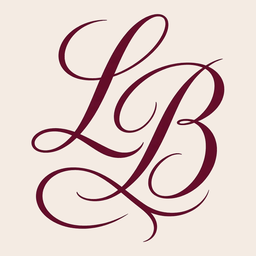
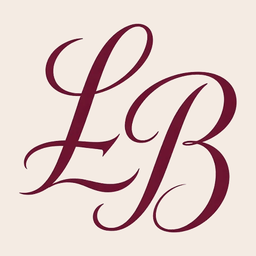
Match the homepage more closely to the approved mockup.
Replace the logo mark, parchment envelope, and river spine with artwork in the mockup's palette and composition, and feather the button wash so it no longer reads as a box.

Changed region(s): [[0.0625, 0.0312, 0.9375, 0.9688], [0.3438, 0.0625, 0.4062, 0.0938]]

diff --git a/app/globals.css b/app/globals.css
@@ -1,5 +1,5 @@
 :root {
-  --paper: #f4ebe3;
+  --paper: #f6eee6;
   --paper-deep: #efe2d6;
   --cream: #fbf6f0;
   --burgundy: #6b2438;
@@ -23,10 +23,11 @@ body {
   min-height: 100vh;
   color: var(--burgundy);
   background-color: var(--paper);
-  background-image:
-    radial-gradient(ellipse 58% 42% at -12% -8%, rgba(214, 186, 206, 0.5), transparent 64%),
-    radial-gradient(ellipse 46% 38% at 112% 2%, rgba(176, 198, 226, 0.38), transparent 60%),
-    radial-gradient(ellipse 42% 30% at 78% 108%, rgba(230, 200, 208, 0.32), transparent 62%);
+  background-image: radial-gradient(
+    ellipse 48% 36% at -6% -4%,
+    rgba(214, 190, 214, 0.28),
+    transparent 68%
+  );
   font-family: var(--font-body), "Palatino Linotype", Palatino, serif;
   font-weight: 400;
   line-height: 1.5;
@@ -111,7 +112,7 @@ a {
 }
 
 .logo-mark {
-  width: 52px;
+  width: 58px;
   height: auto;
   flex: none;
 }
@@ -124,20 +125,21 @@ a {
 
 .logo-name {
   font-family: var(--font-display), Georgia, serif;
-  font-weight: 600;
-  font-size: clamp(1.28rem, 2.5vw, 1.95rem);
-  line-height: 0.95;
-  letter-spacing: -0.02em;
+  font-weight: 500;
+  font-size: clamp(1.35rem, 2.1vw, 1.8rem);
+  line-height: 1;
+  letter-spacing: 0;
 }
 
 .logo-tag {
   display: flex;
   align-items: center;
-  gap: 0.45rem;
-  margin-top: 0.38rem;
-  font-size: 0.58rem;
+  gap: 0.55rem;
+  margin-top: 0.32rem;
+  font-family: var(--font-display), Georgia, serif;
+  font-size: 0.56rem;
   font-weight: 500;
-  letter-spacing: 0.16em;
+  letter-spacing: 0.22em;
   text-transform: uppercase;
   line-height: 1;
   white-space: nowrap;
@@ -196,6 +198,8 @@ a {
   min-height: 48px;
   padding: 0.2rem 1.05rem;
   text-decoration: none;
+  font-family: var(--font-display), Georgia, serif;
+  font-weight: 500;
   font-size: 1.05rem;
 }
 
@@ -222,9 +226,9 @@ a {
   margin: 0;
   font-family: var(--font-display), Georgia, serif;
   font-weight: 600;
-  font-size: clamp(2.15rem, 12.4cqi, 5.15rem);
+  font-size: clamp(2.45rem, 7.6vw, 5.15rem);
   line-height: 0.92;
-  letter-spacing: -0.03em;
+  letter-spacing: -0.02em;
 }
 
 .hero-copy h1 .line,
@@ -261,12 +265,16 @@ a {
 }
 
 .wash-bloom {
-  inset: -28px -64px -32px -52px;
+  inset: -26px -78px -32px -64px;
   z-index: 0;
-  background: url("/images/wash.webp") center / 100% 100% no-repeat;
-  mask-image: radial-gradient(ellipse 68% 62% at 48% 52%, #000 28%, transparent 74%);
+  background:
+    radial-gradient(ellipse 42% 68% at 18% 60%, rgba(224, 164, 190, 0.92), transparent 68%),
+    radial-gradient(ellipse 50% 76% at 48% 50%, rgba(184, 158, 208, 0.88), transparent 70%),
+    radial-gradient(ellipse 44% 70% at 80% 46%, rgba(146, 170, 214, 0.86), transparent 68%);
+  filter: blur(11px);
+  mask-image: radial-gradient(ellipse 80% 64% at 46% 56%, #000 6%, transparent 74%);
   transform: scale(1);
-  transform-origin: center;
+  transform-origin: 40% 58%;
   transition: transform 1.2s cubic-bezier(0.22, 0.61, 0.36, 1);
 }
 
@@ -298,8 +306,9 @@ a {
   background: var(--cream);
   color: var(--burgundy);
   text-decoration: none;
+  font-family: var(--font-display), Georgia, serif;
   font-weight: 600;
-  font-size: 1.02rem;
+  font-size: 1.12rem;
   line-height: 1;
   white-space: nowrap;
   border: 1px solid rgba(107, 36, 56, 0.08);
@@ -361,11 +370,17 @@ a {
 
 .hero-art img {
   width: auto;
-  max-width: min(100%, 420px);
-  max-height: 360px;
+  max-width: min(100%, 460px);
+  max-height: 420px;
   height: auto;
   object-fit: contain;
   margin-inline: auto;
+}
+
+.envelope-still {
+  display: block;
+  width: min(19.5rem, 86vw);
+  height: auto;
 }
 
 .love h2 {
@@ -568,11 +583,14 @@ a {
 .envelope-wrap-letter {
   display: flex;
   justify-content: center;
-  align-items: flex-end;
   width: 100%;
-  margin: 0 auto 2rem;
-  padding-top: 4.5rem;
-  min-height: 19rem;
+  margin: 1.25rem auto 1.75rem;
+  padding-top: 0;
+  min-height: 0;
+}
+
+.envelope-wrap-letter .envelope-still {
+  width: min(24rem, 88vw);
 }
 
 .letter-sheet {
@@ -638,7 +656,7 @@ a {
   }
 
   .logo-mark {
-    width: 72px;
+    width: 78px;
   }
 
   .logo-tag {
@@ -658,8 +676,8 @@ a {
   }
 
   .hero-art img {
-    max-width: min(100%, 480px);
-    max-height: 520px;
+    max-width: min(100%, 560px);
+    max-height: 640px;
   }
 
   .stubs {
@@ -706,56 +724,46 @@ a {
     grid-column: 1;
     grid-row: 1;
     align-self: center;
-    padding-top: 1.5rem;
-  }
-
-  .hero-copy::after {
-    content: "";
-    position: absolute;
-    z-index: -1;
-    left: 46%;
-    right: -28%;
-    top: 74%;
-    height: 120px;
-    pointer-events: none;
-    background: radial-gradient(
-      ellipse at left,
-      rgba(176, 196, 224, 0.42),
-      rgba(206, 186, 216, 0.18) 48%,
-      transparent 74%
-    );
-    filter: blur(4px);
+    padding-top: 1.75rem;
   }
 
   .stage .hero-art {
     grid-column: 2;
-    grid-row: 1;
-    align-self: center;
+    grid-row: 1 / span 2;
+    align-self: start;
     z-index: 1;
+    margin-top: -1.75rem;
+    pointer-events: none;
   }
 
   .stage .hero-art img {
-    max-width: min(100%, 460px);
-    max-height: 460px;
-    margin-inline: auto;
+    width: min(100%, 540px);
+    max-width: none;
+    max-height: 680px;
+    margin-left: 6%;
+    object-position: center top;
   }
 
   .stage .love {
     grid-column: 1;
     grid-row: 2;
-    align-self: start;
-    padding-top: 0.25rem;
-    padding-bottom: 0;
+    align-self: end;
+    padding-top: 1.5rem;
+    padding-bottom: 0.5rem;
   }
 
   .stage .envelope-wrap {
     grid-column: 2;
     grid-row: 2;
     z-index: 2;
-    align-self: start;
-    justify-self: center;
+    align-self: end;
+    justify-self: end;
     padding: 0;
-    margin-top: 0.25rem;
+    margin: 1.25rem 0 0.35rem 0;
+  }
+
+  .stage .envelope-still {
+    width: min(21rem, 34vw);
   }
 
   .lede {

diff --git a/components/Envelope.tsx b/components/Envelope.tsx
@@ -1,38 +1,11 @@
-type EnvelopeProps = {
-  open?: boolean;
-  className?: string;
-};
-
-export function Envelope({ open = false, className }: EnvelopeProps) {
-  const classes = ["envelope", className].filter(Boolean).join(" ");
-
+export function Envelope() {
   return (
-    <div
-      className={classes}
-      data-open={open ? "true" : "false"}
-      aria-hidden="true"
-    >
-      <div className="envelope-shadow" />
-      <div className="envelope-scene">
-        <div className="sheet">
-          <span />
-          <span />
-          <span />
-          <span />
-        </div>
-        <div className="pocket" />
-        <div className="flap">
-          <div className="flap-face flap-front" />
-          <div className="flap-face flap-back" />
-        </div>
-        <img
-          className="seal"
-          src="/images/wax-seal.webp"
-          alt=""
-          width={669}
-          height={682}
-        />
-      </div>
-    </div>
+    <img
+      className="envelope-still"
+      src="/images/envelope.webp"
+      width={950}
+      height={761}
+      alt="Cream parchment envelope with deckled edges and a burgundy wax seal bearing the LB monogram."
+    />
   );
 }

diff --git a/app/page.tsx b/app/page.tsx
@@ -23,9 +23,9 @@ export default function HomePage() {
           <div className="hero-art">
             <img
               src="/images/spine.webp"
-              width={701}
+              width={864}
               height={1152}
-              alt="Watercolor illustration of a spine flowing through lavender and blue washes, with botanical sprigs."
+              alt="Watercolor of a cream spine flowing through a blue and lavender river, with blush botanical sprigs."
             />
           </div>
 

diff --git a/app/layout.tsx b/app/layout.tsx
@@ -1,8 +1,8 @@
 import type { Metadata, Viewport } from "next";
-import { Cormorant_Garamond, Source_Serif_4 } from "next/font/google";
+import { Playfair_Display, Source_Serif_4 } from "next/font/google";
 import "./globals.css";
 
-const display = Cormorant_Garamond({
+const display = Playfair_Display({
   subsets: ["latin"],
   weight: ["500", "600", "700"],
   style: ["normal", "italic"],

diff --git a/app/letter/page.tsx b/app/letter/page.tsx
@@ -14,7 +14,7 @@ export default function LetterPage() {
       <Header />
       <main id="main" className="letter-page">
         <div className="envelope-wrap envelope-wrap-letter">
-          <Envelope open className="envelope-lg" />
+          <Envelope />
         </div>
         <article className="letter-sheet">
           <h1>{letterTitle}</h1>

diff --git a/components/Header.tsx b/components/Header.tsx
@@ -9,8 +9,8 @@ export function Header() {
           className="logo-mark"
           src="/images/monogram.webp"
           alt=""
-          width={634}
-          height={733}
+          width={483}
+          height={467}
         />
         <span className="logo-text">
           <span className="logo-name">Dr. Lindsay Brier</span>
